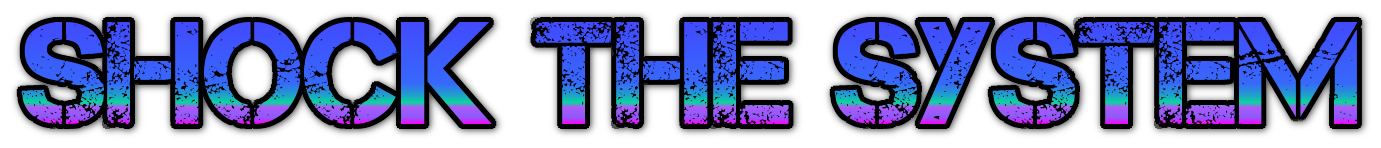
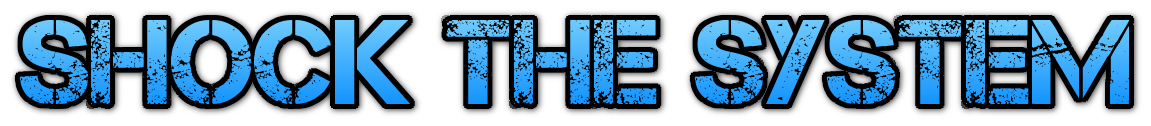
Push to x

diff --git a/index.html b/index.html
@@ -34,7 +34,12 @@
         <header class="masthead">
             <div class="container d-flex h-100 align-items-center">
                 <div class="mx-auto text-center">
-                    <h1 class="mx-auto my-0 text-uppercase">Shock The System</h1>
+                    <img class="img-fluid" src="assets/img/shockTheSystem.png">
+        	<div class="mb-3">
+                    <div class="col-lg-8 mx-auto">
+			<img class="img-fluid" style="max-height: 300px;" src="assets/img/skullLogo.png">
+                    </div>
+                </div>
                     <h4 class="text-white-50 mx-auto mt-2 mb-5">Pro-Worker. Pro-Community. Anti-Corruption.</h4>
                     <h2 class="font-italic text-white mx-auto">It's Time To Make Some Enemies.</h2>
                     <!-- <a class="btn btn-primary js-scroll-trigger" href="#about">Get Started</a> -->
@@ -44,24 +49,19 @@
         <!-- About-->
         <section class="about-section text-center" id="about">
             <div class="container">
-            	<div class="row mb-3">
-                    <div class="col-lg-8 mx-auto">
-			<img class="img-fluid rounded-circle" src="assets/img/male-silhouette.png">
-                    </div>
-                </div>
                 <div class="row">
                     <div class="col-lg-8 mx-auto">
                         <h2 class="text-white mb-4">Coming Soon To A Government Near You</h2>
-                        <p class="text-white-50">
+                        <p class="text-white-50 mb-0">
                             Candidate X is running for Paragould City Council 2022
                         </p>
                     </div>
                 </div>
-                <img class="img-fluid p-5" src="assets/img/voting.jpg" alt="" />
+                <img class="img-fluid p-5 rounded-circle" style="max-height:400px" src="assets/img/voting.jpg" alt="" />
             </div>
         </section>
 
-        <section class="projects-section bg-light" id="projects">
+        <section class="projects-section" id="projects">
             <div class="container">
                 <!-- <div class="row align-items-center no-gutters mb-4 mb-lg-5">
                     <div class="col-xl-8 col-lg-7"><img class="img-fluid mb-3 mb-lg-0" src="assets/img/worker.jpeg" alt="" /></div>

diff --git a/css/styles.css b/css/styles.css
@@ -10250,7 +10250,6 @@ body {
 }
 
 .about-section {
-  padding-top: 10rem;
   background: linear-gradient(to bottom, #000000 0%, rgba(0, 0, 0, 0.9) 75%, rgba(0, 0, 0, 0.8) 100%);
 }
 .about-section p {
@@ -10258,6 +10257,7 @@ body {
 }
 
 .projects-section {
+  background-image: linear-gradient(to bottom, #333333, #3c3c3f, #45454b, #4d4f57, #555964, #525460, #4f505b, #4c4b57, #3c3840, #2c272b, #1a1718, #000000);
   padding: 10rem 0;
 }
 .projects-section .featured-text {
